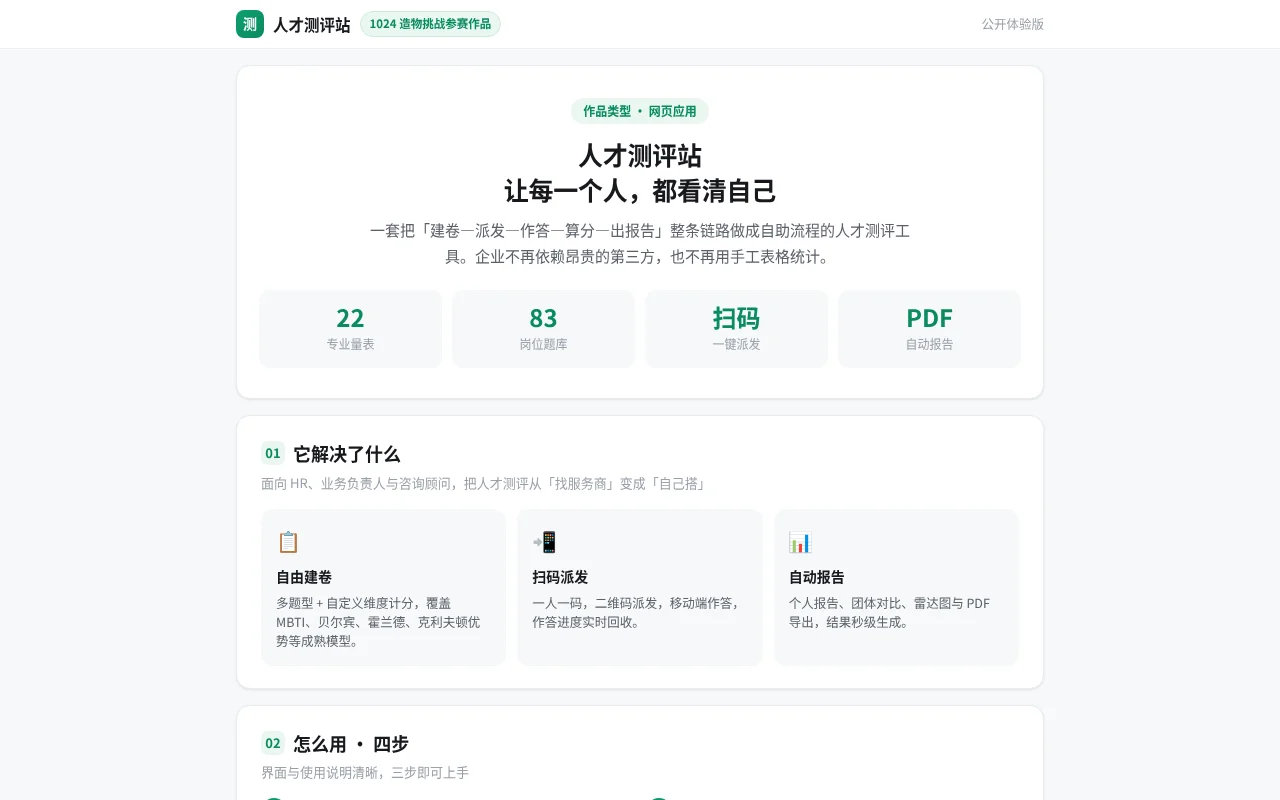
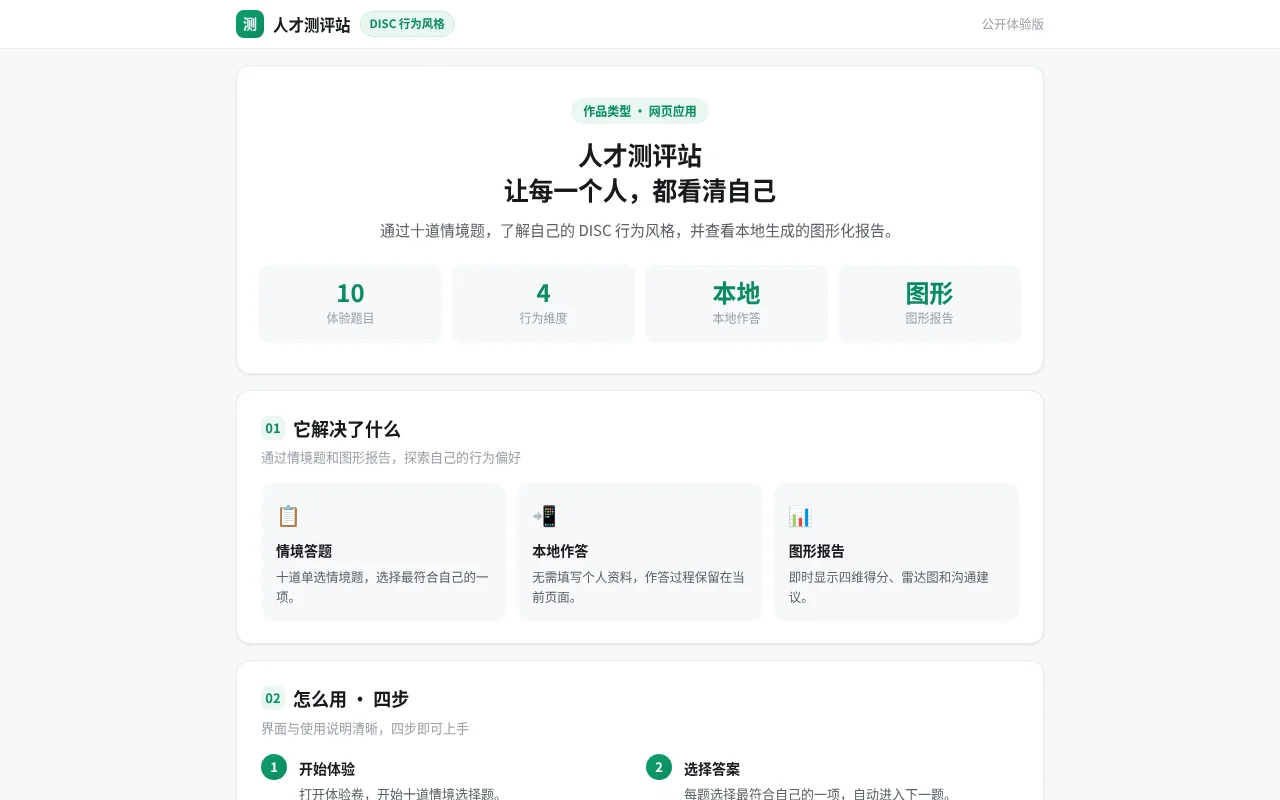
Clarify experience scope

diff --git a/wb1024-c348-6badc3bb/src/app.js b/wb1024-c348-6badc3bb/src/app.js
@@ -1,5 +1,5 @@
 const style=document.createElement('style');style.textContent="\n  :root{\n    --bg:#fff;--bg2:#F6F8FA;--ink:#16181D;--ink2:#5A6069;--ink3:#98A0AB;\n    --line:#EAECF0;--brand:#0E9F6E;--brand2:#0B8A5F;--brandbg:#EAF7F1;\n    --D:#E4572E;--I:#F2B705;--S:#3AA6A6;--C:#4C6EF5;\n    --r:14px;--sh:0 1px 3px rgba(16,24,40,.06),0 1px 2px rgba(16,24,40,.04);\n  }\n  *{box-sizing:border-box;margin:0;padding:0;-webkit-tap-highlight-color:transparent}\n  body{font-family:-apple-system,BlinkMacSystemFont,\"PingFang SC\",\"Microsoft YaHei\",sans-serif;\n    background:var(--bg2);color:var(--ink);line-height:1.7;-webkit-font-smoothing:antialiased}\n  .wrap{max-width:840px;margin:0 auto;padding:0 16px 56px}\n\n  .nav{background:rgba(255,255,255,.92);backdrop-filter:blur(10px);border-bottom:1px solid var(--line);\n    position:sticky;top:0;z-index:30}\n  .nav-in{max-width:840px;margin:0 auto;padding:10px 16px;display:flex;align-items:center;gap:9px}\n  .logo{width:28px;height:28px;border-radius:8px;background:linear-gradient(135deg,var(--brand),var(--brand2));\n    color:#fff;font-size:14px;font-weight:800;display:flex;align-items:center;justify-content:center}\n  .nav b{font-size:15.5px}\n  .nav .tag{font-size:11.5px;font-weight:700;color:var(--brand2);background:var(--brandbg);\n    border:1px solid #CDEBDD;padding:2px 9px;border-radius:999px}\n  .nav .s{font-size:12.5px;color:var(--ink3);margin-left:auto}\n\n  .card{background:var(--bg);border:1px solid var(--line);border-radius:var(--r);box-shadow:var(--sh);\n    padding:22px 24px;margin-top:16px}\n  .card h2{font-size:18px;font-weight:800;margin-bottom:3px;display:flex;align-items:center;gap:8px}\n  .card h2 .n{width:24px;height:24px;border-radius:7px;background:var(--brandbg);color:var(--brand2);\n    font-size:13px;display:flex;align-items:center;justify-content:center;flex-shrink:0}\n  .card .sub{font-size:13px;color:var(--ink3);margin-bottom:15px}\n\n  /* Hero */\n  .hero{text-align:center;padding:30px 22px}\n  .hero .badge{display:inline-block;background:var(--brandbg);color:var(--brand2);font-size:12px;font-weight:700;\n    padding:3px 12px;border-radius:999px;margin-bottom:13px}\n  .hero h1{font-size:25px;font-weight:800;line-height:1.4;letter-spacing:-.01em}\n  .hero .lead{color:var(--ink2);font-size:15px;margin-top:10px;max-width:560px;margin-left:auto;margin-right:auto}\n  .stats{display:grid;grid-template-columns:repeat(4,1fr);gap:10px;margin-top:22px}\n  .stat{background:var(--bg2);border-radius:11px;padding:14px 8px}\n  .stat .v{font-size:24px;font-weight:800;line-height:1.1;font-variant-numeric:tabular-nums;color:var(--brand2)}\n  .stat .k{font-size:12px;color:var(--ink3);margin-top:3px}\n\n  /* 能力卡 */\n  .caps{display:grid;grid-template-columns:repeat(3,1fr);gap:11px;margin-top:4px}\n  .cap{background:var(--bg2);border-radius:12px;padding:15px}\n  .cap .ic{font-size:20px}\n  .cap b{display:block;font-size:14px;margin:7px 0 4px}\n  .cap p{font-size:12.5px;color:var(--ink2);line-height:1.55}\n\n  /* 使用说明 */\n  .how{display:grid;grid-template-columns:repeat(2,1fr);gap:12px;margin-top:4px}\n  .how .step{display:flex;gap:12px;align-items:flex-start}\n  .how .num{width:26px;height:26px;border-radius:50%;background:linear-gradient(135deg,var(--brand),var(--brand2));\n    color:#fff;font-size:13px;font-weight:700;display:flex;align-items:center;justify-content:center;flex-shrink:0}\n  .how .body b{font-size:14px}\n  .how .body p{font-size:13px;color:var(--ink2);margin-top:3px;line-height:1.55}\n\n  /* 体验区 */\n  .exp{background:linear-gradient(180deg,#fff,#FAFFFD);border:1px solid #CDEBDD}\n  .exp .badge{display:inline-block;background:var(--brandbg);color:var(--brand2);font-size:12px;font-weight:700;\n    padding:3px 12px;border-radius:999px;margin-bottom:10px}\n  .exp h2{justify-content:center}\n  .exp .sub{text-align:center}\n  /* 体验首页 */\n  .e-steps{display:grid;grid-template-columns:repeat(3,1fr);gap:9px;margin:6px 0 16px}\n  .e-step{background:var(--bg2);border-radius:10px;padding:12px 10px;text-align:center}\n  .e-step i{display:inline-flex;align-items:center;justify-content:center;width:21px;height:21px;border-radius:50%;\n    background:var(--brand);color:#fff;font-size:11.5px;font-weight:700;font-style:normal}\n  .e-step p{font-size:12.5px;color:var(--ink2);margin-top:5px;line-height:1.5}\n  .btn{display:block;width:100%;border:none;border-radius:11px;padding:14px;font-size:15.5px;font-weight:700;\n    color:#fff;background:linear-gradient(135deg,var(--brand),var(--brand2));cursor:pointer;font-family:inherit;\n    box-shadow:0 4px 14px rgba(14,159,110,.26);transition:.15s}\n  .btn:active{transform:scale(.985)}\n  .btn.ghost{background:#fff;color:var(--ink);border:1px solid var(--line);box-shadow:none}\n  /* 答题 */\n  .prog-top{display:flex;align-items:center;gap:11px;margin-bottom:2px}\n  .prog{flex:1;height:6px;background:var(--line);border-radius:99px;overflow:hidden}\n  .prog i{display:block;height:100%;background:linear-gradient(90deg,var(--brand),var(--brand2));width:0;transition:.32s}\n  .prog-t{font-size:12.5px;color:var(--ink3);white-space:nowrap;font-variant-numeric:tabular-nums}\n  .qtitle{font-size:12.5px;color:var(--brand2);font-weight:700;margin:14px 0 5px}\n  .qtext{font-size:17.5px;font-weight:700;line-height:1.5}\n  .qhint{font-size:13px;color:var(--ink3);margin:4px 0 14px}\n  .opts{display:flex;flex-direction:column;gap:9px}\n  .opt{display:flex;align-items:flex-start;gap:11px;border:1px solid var(--line);border-radius:11px;padding:13px 15px;\n    background:#fff;cursor:pointer;transition:.14s;text-align:left;font-family:inherit;font-size:14.5px;color:var(--ink)}\n  .opt:hover{border-color:var(--brand2);background:#FAFFFD}\n  .opt.on{border-color:var(--brand);background:var(--brandbg);box-shadow:0 0 0 3px rgba(14,159,110,.1)}\n  .opt .k{flex-shrink:0;width:22px;height:22px;border-radius:50%;background:var(--bg2);color:var(--ink2);\n    font-size:11.5px;font-weight:700;display:flex;align-items:center;justify-content:center;margin-top:1px}\n  .opt.on .k{background:var(--brand);color:#fff}\n  /* 报告 */\n  .rh{text-align:center;margin-bottom:6px}\n  .rh h3{font-size:21px;font-weight:800}\n  .rh p{font-size:13.5px;color:var(--ink2);margin-top:5px}\n  .bars{margin-top:6px}\n  .bar{margin-bottom:13px}\n  .bar .lb{display:flex;align-items:center;gap:7px;font-size:13.5px;margin-bottom:5px}\n  .bar .dot{width:9px;height:9px;border-radius:50%}\n  .bar .nm{font-weight:700}\n  .bar .pc{margin-left:auto;font-weight:700;font-variant-numeric:tabular-nums}\n  .track{height:11px;background:var(--bg2);border-radius:99px;overflow:hidden}\n  .track i{display:block;height:100%;border-radius:99px;width:0;transition:.85s cubic-bezier(.22,.8,.3,1)}\n  .tags{display:flex;gap:7px;flex-wrap:wrap;margin-top:4px;justify-content:center}\n  .tag{font-size:12px;padding:3px 11px;border-radius:999px;background:var(--bg2);color:var(--ink2)}\n  .sec{margin-top:20px;padding-top:18px;border-top:1px solid var(--line)}\n  .sec h4{font-size:15px;font-weight:800;margin-bottom:7px}\n  .sec p{font-size:14px;color:var(--ink2)}\n  .kv{display:grid;grid-template-columns:84px 1fr;gap:7px 12px;font-size:14px;margin-top:6px}\n  .kv dt{color:var(--ink3);font-weight:600}\n  .kv dd{color:var(--ink2)}\n  .note{background:var(--bg2);border-radius:10px;padding:13px 15px;font-size:12.5px;color:var(--ink3);line-height:1.65;margin-top:16px}\n  .radar-box{text-align:center;margin-top:4px}\n  svg{max-width:100%;height:auto}\n  .exp-note{font-size:12px;color:var(--ink3);text-align:center;margin-top:14px}\n\n  /* 安全 */\n  .safe{background:var(--bg2);border-radius:11px;padding:14px 16px;margin-top:6px;font-size:13px;color:var(--ink2);line-height:1.7}\n  .safe b{color:var(--ink)}\n\n  .ft{text-align:center;font-size:12px;color:var(--ink3);margin-top:24px;line-height:1.6}\n\n  @media (max-width:600px){\n    .stats{grid-template-columns:repeat(2,1fr)}\n    .caps{grid-template-columns:1fr}\n    .how{grid-template-columns:1fr}\n    .e-steps{grid-template-columns:1fr}\n    .card{padding:18px 17px}\n    .hero h1{font-size:21px}\n  }\n";document.head.appendChild(style);
-document.getElementById('app').innerHTML="\n\n<div class=\"nav\"><div class=\"nav-in\">\n  <div class=\"logo\">测</div><b>人才测评站</b>\n  <span class=\"tag\">1024 造物挑战参赛作品</span>\n  <span class=\"s\">公开体验版</span>\n</div></div>\n\n<div class=\"wrap\">\n\n  <!-- Hero -->\n  <div class=\"card hero\">\n    <span class=\"badge\">作品类型 · 网页应用</span>\n    <h1>人才测评站<br>让每一个人，都看清自己</h1>\n    <p class=\"lead\">一套把「建卷—派发—作答—算分—出报告」整条链路做成自助流程的人才测评工具。企业不再依赖昂贵的第三方，也不再用手工表格统计。</p>\n    <div class=\"stats\">\n      <div class=\"stat\"><div class=\"v\">22</div><div class=\"k\">专业量表</div></div>\n      <div class=\"stat\"><div class=\"v\">83</div><div class=\"k\">岗位题库</div></div>\n      <div class=\"stat\"><div class=\"v\">扫码</div><div class=\"k\">一键派发</div></div>\n      <div class=\"stat\"><div class=\"v\">PDF</div><div class=\"k\">自动报告</div></div>\n    </div>\n  </div>\n\n  <!-- 能力 -->\n  <div class=\"card\">\n    <h2><span class=\"n\">01</span>它解决了什么</h2>\n    <div class=\"sub\">面向 HR、业务负责人与咨询顾问，把人才测评从「找服务商」变成「自己搭」</div>\n    <div class=\"caps\">\n      <div class=\"cap\"><div class=\"ic\">📋</div><b>自由建卷</b><p>多题型 + 自定义维度计分，覆盖 MBTI、贝尔宾、霍兰德、克利夫顿优势等成熟模型。</p></div>\n      <div class=\"cap\"><div class=\"ic\">📲</div><b>扫码派发</b><p>一人一码，二维码派发，移动端作答，作答进度实时回收。</p></div>\n      <div class=\"cap\"><div class=\"ic\">📊</div><b>自动报告</b><p>个人报告、团体对比、雷达图与 PDF 导出，结果秒级生成。</p></div>\n    </div>\n  </div>\n\n  <!-- 使用说明 -->\n  <div class=\"card\">\n    <h2><span class=\"n\">02</span>怎么用 · 四步</h2>\n    <div class=\"sub\">界面与使用说明清晰，三步即可上手</div>\n    <div class=\"how\">\n      <div class=\"step\"><div class=\"num\">1</div><div class=\"body\"><b>选模板建卷</b><p>从 22 套量表或 83 个岗位题库中选一套，几分钟组出一份专属测评。</p></div></div>\n      <div class=\"step\"><div class=\"num\">2</div><div class=\"body\"><b>生成二维码</b><p>系统给出专属二维码与链接，发给候选人、员工或学员即可。</p></div></div>\n      <div class=\"step\"><div class=\"num\">3</div><div class=\"body\"><b>扫码作答</b><p>手机扫一扫就能答，无需注册登录，作答过程自动留存进度。</p></div></div>\n      <div class=\"step\"><div class=\"num\">4</div><div class=\"body\"><b>看报告</b><p>答完即时出图形化报告，可下载 PDF，支持多人团体对比分析。</p></div></div>\n    </div>\n  </div>\n\n  <!-- 免登录体验 -->\n  <div class=\"card exp\" id=\"exp\">\n    <span class=\"badge\">免登录体验</span>\n    <h2>先尝一口：DISC 行为风格体验卷</h2>\n    <div class=\"sub\">无需注册，10 道题约 1 分钟，浏览器本地算分，结果不上传不留存</div>\n\n    <!-- 体验首页 -->\n    <div id=\"e-home\">\n      <div class=\"e-steps\">\n        <div class=\"e-step\"><i>1</i><p>10 道题<br>约 1 分钟</p></div>\n        <div class=\"e-step\"><i>2</i><p>自动算分<br>无需等待</p></div>\n        <div class=\"e-step\"><i>3</i><p>生成报告<br>图形化解读</p></div>\n      </div>\n      <button class=\"btn\" onclick=\"startExp()\">开始体验 →</button>\n      <div class=\"exp-note\">这是精简体验卷；完整版含 22 套专业量表与 83 个岗位题库。</div>\n    </div>\n\n    <!-- 答题 -->\n    <div id=\"e-quiz\" style=\"display:none\">\n      <div class=\"prog-top\">\n        <div class=\"prog\"><i id=\"epb\"></i></div>\n        <div class=\"prog-t\" id=\"ept\">1 / 10</div>\n      </div>\n      <div class=\"qtitle\" id=\"eqt\"></div>\n      <div class=\"qtext\" id=\"eqx\"></div>\n      <div class=\"qhint\">选择最符合你的一项</div>\n      <div class=\"opts\" id=\"eqa\"></div>\n    </div>\n\n    <!-- 报告 -->\n    <div id=\"e-report\" style=\"display:none\">\n      <div class=\"rh\">\n        <span class=\"badge\" style=\"margin-bottom:8px\">你的 DISC 报告</span>\n        <h3 id=\"er-title\"></h3>\n        <p id=\"er-sub\"></p>\n        <div class=\"radar-box\"><div id=\"er-radar\"></div></div>\n        <div class=\"tags\" id=\"er-tags\"></div>\n      </div>\n      <div class=\"sec\" style=\"margin-top:16px;padding-top:16px\">\n        <h4>四维得分</h4>\n        <div class=\"bars\" id=\"er-bars\"></div>\n      </div>\n      <div class=\"sec\">\n        <h4>你的行为底色</h4>\n        <p id=\"er-sum\"></p>\n      </div>\n      <div class=\"sec\">\n        <h4>优势与提醒</h4>\n        <dl class=\"kv\" id=\"er-kv\"></dl>\n      </div>\n      <div class=\"sec\">\n        <h4>沟通建议</h4>\n        <p id=\"er-tip\"></p>\n      </div>\n      <div class=\"note\">\n        本体验结果由浏览器本地计算生成，不上传、不留存任何数据。完整版支持 22 套专业量表、团体报告对比与 PDF 导出。\n      </div>\n      <button class=\"btn ghost\" onclick=\"homeExp()\" style=\"margin-top:14px\">再测一次</button>\n    </div>\n  </div>\n\n  <!-- 数据安全 -->\n  <div class=\"card\">\n    <h2><span class=\"n\">03</span>数据安全是怎么做的</h2>\n    <div class=\"sub\">参赛作品与线上系统严格隔离，这也是我们做产品的底线</div>\n    <div class=\"safe\">\n      <b>① 隔离施工：</b>本参赛页为独立静态页面，与线上生产系统物理隔离，不读取任何生产数据库。<br>\n      <b>② 本地计算：</b>体验卷评分全程在浏览器本地完成，结果不出本机。<br>\n      <b>③ 零凭据：</b>页面不含任何账号、密钥或内部路径；发布前经自动化泄露扫描，确认无敏感内容。<br>\n      <b>④ 资产保护：</b>22 套量表与 83 个岗位题库为核心资产，对外仅开放体验专用卷，真题库不随参赛公开。\n    </div>\n  </div>\n\n  <div class=\"ft\">\n    人才测评站 · 1024 造物挑战参赛作品（网页应用）<br>\n    本页为公开体验版，所有测评数据均在本地处理，不上传不留存。\n  </div>\n\n</div>\n\n";
+document.getElementById('app').innerHTML="\n\n<div class=\"nav\"><div class=\"nav-in\">\n  <div class=\"logo\">测</div><b>人才测评站</b>\n  <span class=\"tag\">DISC 行为风格</span>\n  <span class=\"s\">公开体验版</span>\n</div></div>\n\n<div class=\"wrap\">\n\n  <!-- Hero -->\n  <div class=\"card hero\">\n    <span class=\"badge\">作品类型 · 网页应用</span>\n    <h1>人才测评站<br>让每一个人，都看清自己</h1>\n    <p class=\"lead\">通过十道情境题，了解自己的 DISC 行为风格，并查看本地生成的图形化报告。</p>\n    <div class=\"stats\">\n      <div class=\"stat\"><div class=\"v\">10</div><div class=\"k\">体验题目</div></div>\n      <div class=\"stat\"><div class=\"v\">4</div><div class=\"k\">行为维度</div></div>\n      <div class=\"stat\"><div class=\"v\">本地</div><div class=\"k\">本地作答</div></div>\n      <div class=\"stat\"><div class=\"v\">图形</div><div class=\"k\">图形报告</div></div>\n    </div>\n  </div>\n\n  <!-- 能力 -->\n  <div class=\"card\">\n    <h2><span class=\"n\">01</span>它解决了什么</h2>\n    <div class=\"sub\">通过情境题和图形报告，探索自己的行为偏好</div>\n    <div class=\"caps\">\n      <div class=\"cap\"><div class=\"ic\">📋</div><b>情境答题</b><p>十道单选情境题，选择最符合自己的一项。</p></div>\n      <div class=\"cap\"><div class=\"ic\">📲</div><b>本地作答</b><p>无需填写个人资料，作答过程保留在当前页面。</p></div>\n      <div class=\"cap\"><div class=\"ic\">📊</div><b>图形报告</b><p>即时显示四维得分、雷达图和沟通建议。</p></div>\n    </div>\n  </div>\n\n  <!-- 使用说明 -->\n  <div class=\"card\">\n    <h2><span class=\"n\">02</span>怎么用 · 四步</h2>\n    <div class=\"sub\">界面与使用说明清晰，四步即可上手</div>\n    <div class=\"how\">\n      <div class=\"step\"><div class=\"num\">1</div><div class=\"body\"><b>开始体验</b><p>打开体验卷，开始十道情境选择题。</p></div></div>\n      <div class=\"step\"><div class=\"num\">2</div><div class=\"body\"><b>选择答案</b><p>每题选择最符合自己的一项，自动进入下一题。</p></div></div>\n      <div class=\"step\"><div class=\"num\">3</div><div class=\"body\"><b>完成答题</b><p>完成十题后，在浏览器中计算得分。</p></div></div>\n      <div class=\"step\"><div class=\"num\">4</div><div class=\"body\"><b>看报告</b><p>答完即时查看图形化个人报告。</p></div></div>\n    </div>\n  </div>\n\n  <!-- 免登录体验 -->\n  <div class=\"card exp\" id=\"exp\">\n    <span class=\"badge\">免登录体验</span>\n    <h2>先尝一口：DISC 行为风格体验卷</h2>\n    <div class=\"sub\">无需注册，10 道题约 1 分钟，浏览器本地算分，结果不上传不留存</div>\n\n    <!-- 体验首页 -->\n    <div id=\"e-home\">\n      <div class=\"e-steps\">\n        <div class=\"e-step\"><i>1</i><p>10 道题<br>约 1 分钟</p></div>\n        <div class=\"e-step\"><i>2</i><p>自动算分<br>无需等待</p></div>\n        <div class=\"e-step\"><i>3</i><p>生成报告<br>图形化解读</p></div>\n      </div>\n      <button class=\"btn\" onclick=\"startExp()\">开始体验 →</button>\n      <div class=\"exp-note\">这是精简体验卷，不包含组卷、团体报告与 PDF 导出。</div>\n    </div>\n\n    <!-- 答题 -->\n    <div id=\"e-quiz\" style=\"display:none\">\n      <div class=\"prog-top\">\n        <div class=\"prog\"><i id=\"epb\"></i></div>\n        <div class=\"prog-t\" id=\"ept\">1 / 10</div>\n      </div>\n      <div class=\"qtitle\" id=\"eqt\"></div>\n      <div class=\"qtext\" id=\"eqx\"></div>\n      <div class=\"qhint\">选择最符合你的一项</div>\n      <div class=\"opts\" id=\"eqa\"></div>\n    </div>\n\n    <!-- 报告 -->\n    <div id=\"e-report\" style=\"display:none\">\n      <div class=\"rh\">\n        <span class=\"badge\" style=\"margin-bottom:8px\">你的 DISC 报告</span>\n        <h3 id=\"er-title\"></h3>\n        <p id=\"er-sub\"></p>\n        <div class=\"radar-box\"><div id=\"er-radar\"></div></div>\n        <div class=\"tags\" id=\"er-tags\"></div>\n      </div>\n      <div class=\"sec\" style=\"margin-top:16px;padding-top:16px\">\n        <h4>四维得分</h4>\n        <div class=\"bars\" id=\"er-bars\"></div>\n      </div>\n      <div class=\"sec\">\n        <h4>你的行为底色</h4>\n        <p id=\"er-sum\"></p>\n      </div>\n      <div class=\"sec\">\n        <h4>优势与提醒</h4>\n        <dl class=\"kv\" id=\"er-kv\"></dl>\n      </div>\n      <div class=\"sec\">\n        <h4>沟通建议</h4>\n        <p id=\"er-tip\"></p>\n      </div>\n      <div class=\"note\">\n        本体验结果由浏览器本地计算生成，不上传、不留存任何数据。本体验不包含组卷、团体报告与 PDF 导出。\n      </div>\n      <button class=\"btn ghost\" onclick=\"homeExp()\" style=\"margin-top:14px\">再测一次</button>\n    </div>\n  </div>\n\n  <!-- 数据安全 -->\n  <div class=\"card\">\n    <h2><span class=\"n\">03</span>数据安全是怎么做的</h2>\n    <div class=\"sub\">作答仅在当前页面内处理</div>\n    <div class=\"safe\">\n      <b>① 无数据库：</b>本体验不读取或保存测评数据库。<br>\n      <b>② 本地计算：</b>体验卷评分全程在浏览器本地完成，结果不出本机。<br>\n      <b>③ 不留存：</b>刷新或关闭页面后，作答结果会清空。<br>\n      <b>④ 体验范围：</b>本页面仅提供十题体验卷。\n    </div>\n  </div>\n\n  <div class=\"ft\">\n    人才测评站 · DISC 行为风格（网页应用）<br>\n    本页为公开体验版，所有测评数据均在本地处理，不上传不留存。\n  </div>\n\n</div>\n\n";
 
 // ===== 体验题库（10 题 DISC 四维迫选，专为参赛编写，与生产题库隔离）=====
 var EQ = [

diff --git a/wb1024-c348-6badc3bb/showcase/preview.html b/wb1024-c348-6badc3bb/showcase/preview.html
@@ -137,7 +137,7 @@
 
 <div class="nav"><div class="nav-in">
   <div class="logo">测</div><b>人才测评站</b>
-  <span class="tag">1024 造物挑战参赛作品</span>
+  <span class="tag">DISC 行为风格</span>
   <span class="s">公开体验版</span>
 </div></div>
 
@@ -147,35 +147,35 @@
   <div class="card hero">
     <span class="badge">作品类型 · 网页应用</span>
     <h1>人才测评站<br>让每一个人，都看清自己</h1>
-    <p class="lead">一套把「建卷—派发—作答—算分—出报告」整条链路做成自助流程的人才测评工具。企业不再依赖昂贵的第三方，也不再用手工表格统计。</p>
+    <p class="lead">通过十道情境题，了解自己的 DISC 行为风格，并查看本地生成的图形化报告。</p>
     <div class="stats">
-      <div class="stat"><div class="v">22</div><div class="k">专业量表</div></div>
-      <div class="stat"><div class="v">83</div><div class="k">岗位题库</div></div>
-      <div class="stat"><div class="v">扫码</div><div class="k">一键派发</div></div>
-      <div class="stat"><div class="v">PDF</div><div class="k">自动报告</div></div>
+      <div class="stat"><div class="v">10</div><div class="k">体验题目</div></div>
+      <div class="stat"><div class="v">4</div><div class="k">行为维度</div></div>
+      <div class="stat"><div class="v">本地</div><div class="k">本地作答</div></div>
+      <div class="stat"><div class="v">图形</div><div class="k">图形报告</div></div>
     </div>
   </div>
 
   <!-- 能力 -->
   <div class="card">
     <h2><span class="n">01</span>它解决了什么</h2>
-    <div class="sub">面向 HR、业务负责人与咨询顾问，把人才测评从「找服务商」变成「自己搭」</div>
+    <div class="sub">通过情境题和图形报告，探索自己的行为偏好</div>
     <div class="caps">
-      <div class="cap"><div class="ic">📋</div><b>自由建卷</b><p>多题型 + 自定义维度计分，覆盖 MBTI、贝尔宾、霍兰德、克利夫顿优势等成熟模型。</p></div>
-      <div class="cap"><div class="ic">📲</div><b>扫码派发</b><p>一人一码，二维码派发，移动端作答，作答进度实时回收。</p></div>
-      <div class="cap"><div class="ic">📊</div><b>自动报告</b><p>个人报告、团体对比、雷达图与 PDF 导出，结果秒级生成。</p></div>
+      <div class="cap"><div class="ic">📋</div><b>情境答题</b><p>十道单选情境题，选择最符合自己的一项。</p></div>
+      <div class="cap"><div class="ic">📲</div><b>本地作答</b><p>无需填写个人资料，作答过程保留在当前页面。</p></div>
+      <div class="cap"><div class="ic">📊</div><b>图形报告</b><p>即时显示四维得分、雷达图和沟通建议。</p></div>
     </div>
   </div>
 
   <!-- 使用说明 -->
   <div class="card">
     <h2><span class="n">02</span>怎么用 · 四步</h2>
-    <div class="sub">界面与使用说明清晰，三步即可上手</div>
+    <div class="sub">界面与使用说明清晰，四步即可上手</div>
     <div class="how">
-      <div class="step"><div class="num">1</div><div class="body"><b>选模板建卷</b><p>从 22 套量表或 83 个岗位题库中选一套，几分钟组出一份专属测评。</p></div></div>
-      <div class="step"><div class="num">2</div><div class="body"><b>生成二维码</b><p>系统给出专属二维码与链接，发给候选人、员工或学员即可。</p></div></div>
-      <div class="step"><div class="num">3</div><div class="body"><b>扫码作答</b><p>手机扫一扫就能答，无需注册登录，作答过程自动留存进度。</p></div></div>
-      <div class="step"><div class="num">4</div><div class="body"><b>看报告</b><p>答完即时出图形化报告，可下载 PDF，支持多人团体对比分析。</p></div></div>
+      <div class="step"><div class="num">1</div><div class="body"><b>开始体验</b><p>打开体验卷，开始十道情境选择题。</p></div></div>
+      <div class="step"><div class="num">2</div><div class="body"><b>选择答案</b><p>每题选择最符合自己的一项，自动进入下一题。</p></div></div>
+      <div class="step"><div class="num">3</div><div class="body"><b>完成答题</b><p>完成十题后，在浏览器中计算得分。</p></div></div>
+      <div class="step"><div class="num">4</div><div class="body"><b>看报告</b><p>答完即时查看图形化个人报告。</p></div></div>
     </div>
   </div>
 
@@ -193,7 +193,7 @@
         <div class="e-step"><i>3</i><p>生成报告<br>图形化解读</p></div>
       </div>
       <button class="btn" onclick="startExp()">开始体验 →</button>
-      <div class="exp-note">这是精简体验卷；完整版含 22 套专业量表与 83 个岗位题库。</div>
+      <div class="exp-note">这是精简体验卷，不包含组卷、团体报告与 PDF 导出。</div>
     </div>
 
     <!-- 答题 -->
@@ -234,7 +234,7 @@
         <p id="er-tip"></p>
       </div>
       <div class="note">
-        本体验结果由浏览器本地计算生成，不上传、不留存任何数据。完整版支持 22 套专业量表、团体报告对比与 PDF 导出。
+        本体验结果由浏览器本地计算生成，不上传、不留存任何数据。本体验不包含组卷、团体报告与 PDF 导出。
       </div>
       <button class="btn ghost" onclick="homeExp()" style="margin-top:14px">再测一次</button>
     </div>
@@ -243,17 +243,17 @@
   <!-- 数据安全 -->
   <div class="card">
     <h2><span class="n">03</span>数据安全是怎么做的</h2>
-    <div class="sub">参赛作品与线上系统严格隔离，这也是我们做产品的底线</div>
+    <div class="sub">作答仅在当前页面内处理</div>
     <div class="safe">
-      <b>① 隔离施工：</b>本参赛页为独立静态页面，与线上生产系统物理隔离，不读取任何生产数据库。<br>
+      <b>① 无数据库：</b>本体验不读取或保存测评数据库。<br>
       <b>② 本地计算：</b>体验卷评分全程在浏览器本地完成，结果不出本机。<br>
-      <b>③ 零凭据：</b>页面不含任何账号、密钥或内部路径；发布前经自动化泄露扫描，确认无敏感内容。<br>
-      <b>④ 资产保护：</b>22 套量表与 83 个岗位题库为核心资产，对外仅开放体验专用卷，真题库不随参赛公开。
+      <b>③ 不留存：</b>刷新或关闭页面后，作答结果会清空。<br>
+      <b>④ 体验范围：</b>本页面仅提供十题体验卷。
     </div>
   </div>
 
   <div class="ft">
-    人才测评站 · 1024 造物挑战参赛作品（网页应用）<br>
+    人才测评站 · DISC 行为风格（网页应用）<br>
     本页为公开体验版，所有测评数据均在本地处理，不上传不留存。
   </div>
 
